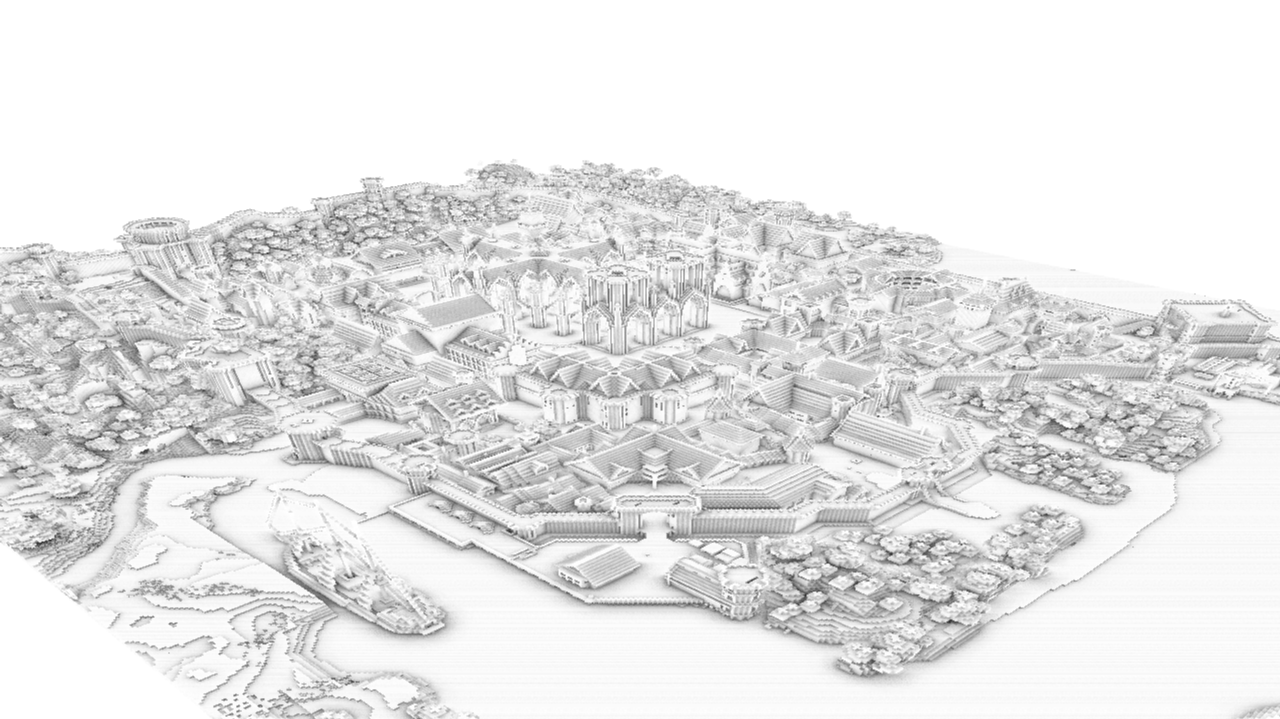
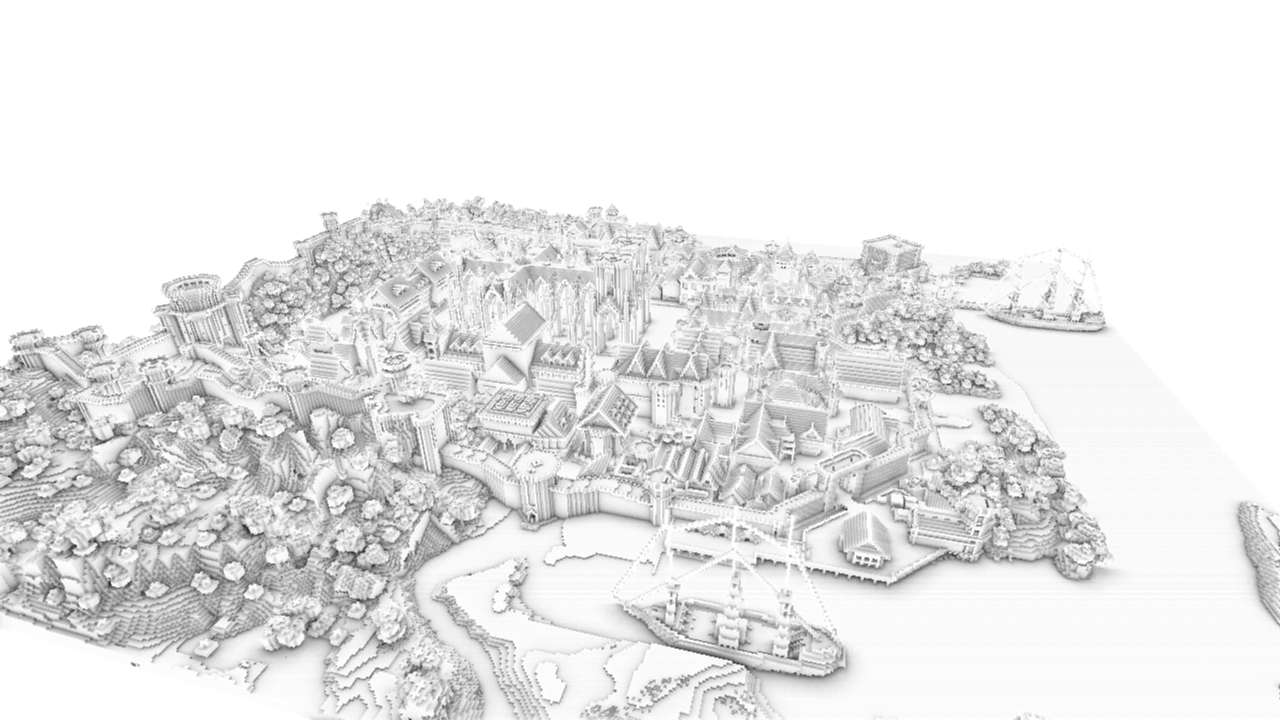
new deferred image

diff --git a/projects/deferred.md b/projects/deferred.md
@@ -8,6 +8,6 @@ style:		dark
 ### A Deferred Shading Engine written in C++ and OpenGL
 
 ![A test scene with SSAO](../images/deferred.png)
-*The Rungholt scene (6m triangles) rendered using Screen-Space Ambient Occlusion*
+*The Rungholt scene rendered with simple diffuse lighting and SSAO*
 
 ### Overview ###
